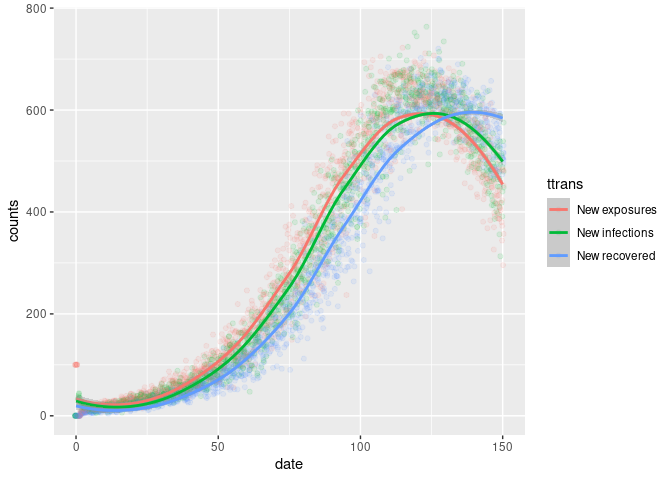
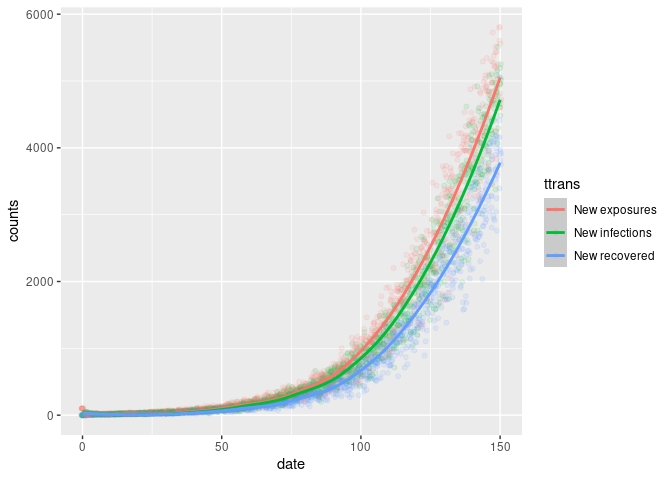
Running sims in CHPC

diff --git a/model-rt3/README.md b/model-rt3/README.md
@@ -26,7 +26,7 @@ parameters defined above.
 
 ``` r
 # Reading in parameters
-n      <- 1e5      # Population size
+n      <- 1e6      # Population size
 preval <- 100/n    # Initial infected fraction
 crate  <- 5.0      # Contact Rate
 incu   <- 3.0      # Avg incubation
@@ -53,10 +53,10 @@ saver <- make_saver(
 )
 
 set.seed(331)
-run_multiple(mymodel, ndays = 150, nsims = 200, saver = saver, nthreads = 8)
+run_multiple(mymodel, ndays = 150, nsims = 200, saver = saver, nthreads = 20)
 ```
 
-    Starting multiple runs (200) using 8 thread(s)
+    Starting multiple runs (200) using 20 thread(s)
     _________________________________________________________________________
     _________________________________________________________________________
     ||||||||||||||||||||||||||||||||||||||||||||||||||||||||||||||||||||||||| done.
@@ -73,15 +73,15 @@ summary(mymodel)
     SIMULATION STUDY
 
     Name of the model   : Susceptible-Exposed-Infected-Removed (SEIR) (connected)
-    Population size     : 100000
+    Population size     : 1000000
     Agents' data        : (none)
     Number of entities  : 0
     Days (duration)     : 150 (of 150)
     Number of viruses   : 1
-    Last run elapsed t  : 1.00s
-    Total elapsed t     : 57.00s (200 runs)
-    Last run speed      : 11.84 million agents x day / second
-    Average run speed   : 52.10 million agents x day / second
+    Last run elapsed t  : 0.00m
+    Total elapsed t     : 2.00m (200 runs)
+    Last run speed      : 10.42 million agents x day / second
+    Average run speed   : 207.61 million agents x day / second
     Rewiring            : off
 
     Global events:
@@ -100,15 +100,15 @@ summary(mymodel)
      - Prob. Transmission   : 0.0429
 
     Distribution of the population at time 150:
-      - (0) Susceptible :  99900 -> 56182
-      - (1) Exposed     :    100 -> 1426
-      - (2) Infected    :      0 -> 3753
-      - (3) Recovered   :      0 -> 38639
+      - (0) Susceptible :  999900 -> 834414
+      - (1) Exposed     :     100 -> 15155
+      - (2) Infected    :       0 -> 30256
+      - (3) Recovered   :       0 -> 120175
 
     Transition Probabilities:
      - Susceptible  1.00  0.00  0.00  0.00
      - Exposed      0.00  0.67  0.33  0.00
-     - Infected     0.00  0.00  0.85  0.15
+     - Infected     0.00  0.00  0.86  0.14
      - Recovered    0.00  0.00  0.00  1.00
 
 ``` r
@@ -138,7 +138,7 @@ ggplot(rt_sample, aes(x = source_exposure_date, y = rt)) +
 
     `geom_smooth()` using formula = 'y ~ x'
 
-![](README_files/figure-commonmark/repnum-1.png)
+![](README_files/figure-commonmark/reproductive-number-1.png)
 
 ``` r
 setorder(rt, id, source_exposure_date, rt)
@@ -182,13 +182,13 @@ ggplot(gentime_sample, aes(x = source_exposure_date, y = gtime)) +
 
     `geom_smooth()` using formula = 'y ~ x'
 
-    Warning: Removed 4 rows containing non-finite outside the scale range
+    Warning: Removed 5 rows containing non-finite outside the scale range
     (`stat_smooth()`).
 
-    Warning: Removed 4 rows containing missing values or values outside the scale range
+    Warning: Removed 5 rows containing missing values or values outside the scale range
     (`geom_point()`).
 
-![](README_files/figure-commonmark/gentime-1.png)
+![](README_files/figure-commonmark/generation-time-1.png)
 
 ``` r
 fwrite(gentime, "generation_time.gz")
@@ -296,11 +296,11 @@ epicurves_end[, .(
     ), by = "state"] |> knitr::kable()
 ```
 
-| state       |       Avg |     50% |     2.5% |     97.5% |
-|:------------|----------:|--------:|---------:|----------:|
-| Susceptible | 54320.595 | 53979.5 | 50121.35 | 60427.575 |
-| Exposed     |  1330.415 |  1311.0 |  1026.40 |  1655.475 |
-| Infected    |  3546.225 |  3533.0 |  2951.10 |  4160.925 |
-| Recovered   | 40802.765 | 41093.0 | 33607.43 | 45875.375 |
+| state       |       Avg |      50% |      2.5% |     97.5% |
+|:------------|----------:|---------:|----------:|----------:|
+| Susceptible | 843822.86 | 841419.0 | 800498.62 | 897707.20 |
+| Exposed     |  14292.99 |  14569.5 |  10427.55 |  16725.15 |
+| Infected    |  28295.69 |  28700.5 |  19399.42 |  34253.70 |
+| Recovered   | 113588.46 | 115006.5 |  72473.18 | 148660.90 |
 
 [^1]: The description of the model was generated by GitHub copilot
